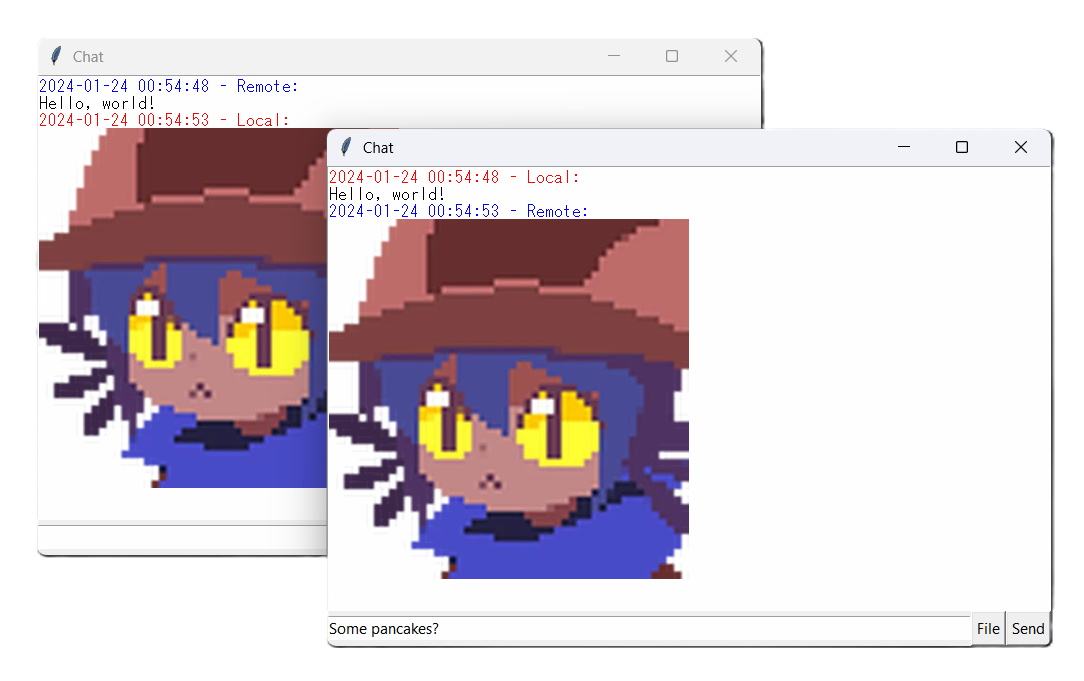
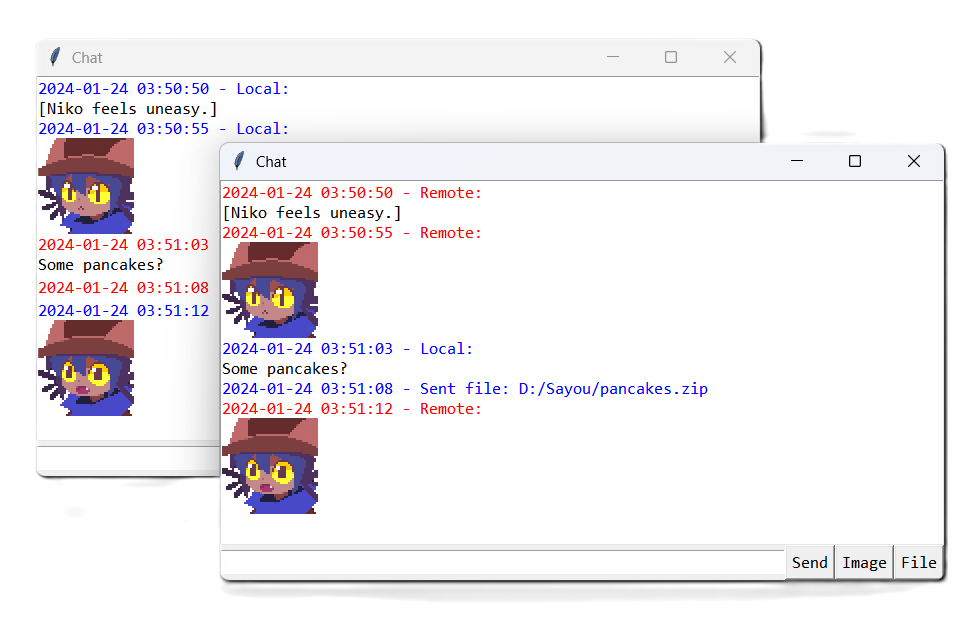
Support for sending files in chat

diff --git a/Python/IMFTP/imftp.py b/Python/IMFTP/imftp.py
@@ -1,12 +1,12 @@
 #!/usr/bin/python3
-import sys, io, socket, threading, queue, tkinter
-from tkinter import filedialog, messagebox
-from datetime import datetime
-from PIL import Image, ImageTk
+import os, sys, io, socket, threading, queue, tkinter
 import Crypto.PublicKey.ECC as ECC
 import Crypto.Protocol.DH as DH
 import Crypto.Cipher.AES as AES
 import Crypto.Hash.SHA224 as SHA224
+from tkinter import filedialog, messagebox
+from datetime import datetime
+from PIL import Image, ImageTk
 class TCPClientWrapper:
     def __init__(self, client):
         self.client = client
@@ -64,42 +64,58 @@ class TCPClientWrapper:
             data = cont.encode()
             size = len(data)
             if size > 16777215:
-                tkinter.messagebox.showerror('Error', 'Message too long')
+                tkinter.messagebox.showerror('Error', 'Message too long, should be less than 16777215 bytes')
                 return
             time = datetime.now()
             self.sendall(int(time.timestamp()).to_bytes(4, 'big') + b'\1' + size.to_bytes(3, 'big') + data)
             text.config(state = tkinter.NORMAL)
-            text.insert(tkinter.END, time.strftime('%Y-%m-%d %H:%M:%S - Local:'), 'Local')
+            text.insert(tkinter.END, time.strftime('%Y-%m-%d %H:%M:%S - Local: '), 'Local')
             text.insert(tkinter.END, '\n')
             text.insert(tkinter.END, cont)
             text.insert(tkinter.END, '\n')
             text.see(tkinter.END)
             text.config(state = tkinter.DISABLED)
             line.delete(0, tkinter.END)
-        def on_file(event = None):
+        def on_imag(event = None):
             path = filedialog.askopenfilename()
             if not path:
                 return
+            data = open(path, 'rb').read()
             try:
-                imgtk = ImageTk.PhotoImage(Image.open(path))
+                imgtk = ImageTk.PhotoImage(Image.open(io.BytesIO(data)))
             except:
                 messagebox.showerror('Error', 'Invalid image')
                 return
-            data = open(path, 'rb').read()
             size = len(data)
             if size > 16777215:
-                messagebox.showerror('Error', 'Image too large')
+                messagebox.showerror('Error', 'Image too large, should be less than 16 MiB')
                 return
             time = datetime.now()
             self.sendall(int(time.timestamp()).to_bytes(4, 'big') + b'\2' + size.to_bytes(3, 'big') + data)
             text.config(state = tkinter.NORMAL)
-            text.insert(tkinter.END, time.strftime('%Y-%m-%d %H:%M:%S - Local:'), 'Local')
+            text.insert(tkinter.END, time.strftime('%Y-%m-%d %H:%M:%S - Local: '), 'Local')
             text.insert(tkinter.END, '\n')
             text.image_create(tkinter.END, image = imgtk)
             text.insert(tkinter.END, '\n')
             text.see(tkinter.END)
             text.config(state = tkinter.DISABLED)
             imgs.append(imgtk)
+        def on_file(event = None):
+            path = filedialog.askopenfilename()
+            if not path:
+                return
+            data = os.path.basename(path).encode() + b'\0' + open(path, 'rb').read()
+            size = len(data)
+            if size > 16777215:
+                messagebox.showerror('Error', 'File too large, should be less than 16 MiB')
+                return
+            time = datetime.now()
+            self.sendall(int(time.timestamp()).to_bytes(4, 'big') + b'\3' + size.to_bytes(3, 'big') + data)
+            text.config(state = tkinter.NORMAL)
+            text.insert(tkinter.END, time.strftime('%Y-%m-%d %H:%M:%S - Sent file: ') + path, 'Local')
+            text.insert(tkinter.END, '\n')
+            text.see(tkinter.END)
+            text.config(state = tkinter.DISABLED)
         def recvloop():
             while True:
                 head = self.recvall(8)
@@ -129,27 +145,46 @@ class TCPClientWrapper:
                     text.image_create(tkinter.END, image = imgtk)
                     text.insert(tkinter.END, '\n')
                     imgs.append(imgtk)
+                elif mode == 3:
+                    name, data = data.split(b'\0', 1)
+                    base = name.decode()
+                    def save(event, base = base, data = data):
+                        path = filedialog.asksaveasfilename(initialfile = base)
+                        if path:
+                            open(path, 'wb').write(data)
+                    text.insert(tkinter.END, time.strftime('%Y-%m-%d %H:%M:%S - Received file: '), 'Remote')
+                    link = tkinter.Label(text, text = base, fg = 'blue', cursor = 'hand2', font = TXTF, bg = 'white')
+                    link.bind('<Enter>', lambda event, link = link: link.config(font = URLF))
+                    link.bind('<Leave>', lambda event, link = link: link.config(font = TXTF))
+                    link.bind('<Button-1>', save)
+                    text.window_create(tkinter.END, window = link)
+                    text.insert(tkinter.END, '\n')
                 text.see(tkinter.END)
                 text.config(state = tkinter.DISABLED)
             root.after(1, update)
-        imgs = []
+        TXTF = ('Consolas', 10)
+        BTNF = ('Consolas', 10)
+        URLF = ('Consolas', 10, 'underline')
+        imgs = [] # prevent garbage collection
         root = tkinter.Tk()
         root.title('Chat')
         root.minsize(640, 480)
         root.protocol('WM_DELETE_WINDOW', on_quit)
-        text = tkinter.Text(root, state = tkinter.DISABLED)
-        text.tag_config('Local', foreground = 'red')
-        text.tag_config('Remote', foreground = 'blue')
+        text = tkinter.Text(root, state = tkinter.DISABLED, font = TXTF, height = 10, bg = 'white')
+        text.tag_config('Local', foreground = 'blue')
+        text.tag_config('Remote', foreground = 'red')
         down = tkinter.Frame(root)
-        line = tkinter.Entry(down)
+        line = tkinter.Entry(down, font = TXTF)
         line.bind('<Return>', on_send)
-        send = tkinter.Button(down, text = 'Send', command = on_send)
-        file = tkinter.Button(down, text = 'File', command = on_file)
+        send = tkinter.Button(down, text = 'Send', command = on_send, font = BTNF)
+        imag = tkinter.Button(down, text = 'Image', command = on_imag, font = BTNF)
+        file = tkinter.Button(down, text = 'File', command = on_file, font = BTNF)
         text.pack(fill = tkinter.BOTH, side = tkinter.TOP, expand = True)
         down.pack(fill = tkinter.X, side = tkinter.BOTTOM)
         line.pack(fill = tkinter.X, side = tkinter.LEFT, expand = True)
-        send.pack(fill = tkinter.X, side = tkinter.RIGHT)
-        file.pack(fill = tkinter.X, side = tkinter.RIGHT)
+        send.pack(fill = tkinter.X, side = tkinter.LEFT)
+        imag.pack(fill = tkinter.X, side = tkinter.LEFT)
+        file.pack(fill = tkinter.X, side = tkinter.LEFT)
         fifo = queue.Queue()
         recv = threading.Thread(target = recvloop)
         recv.start()
